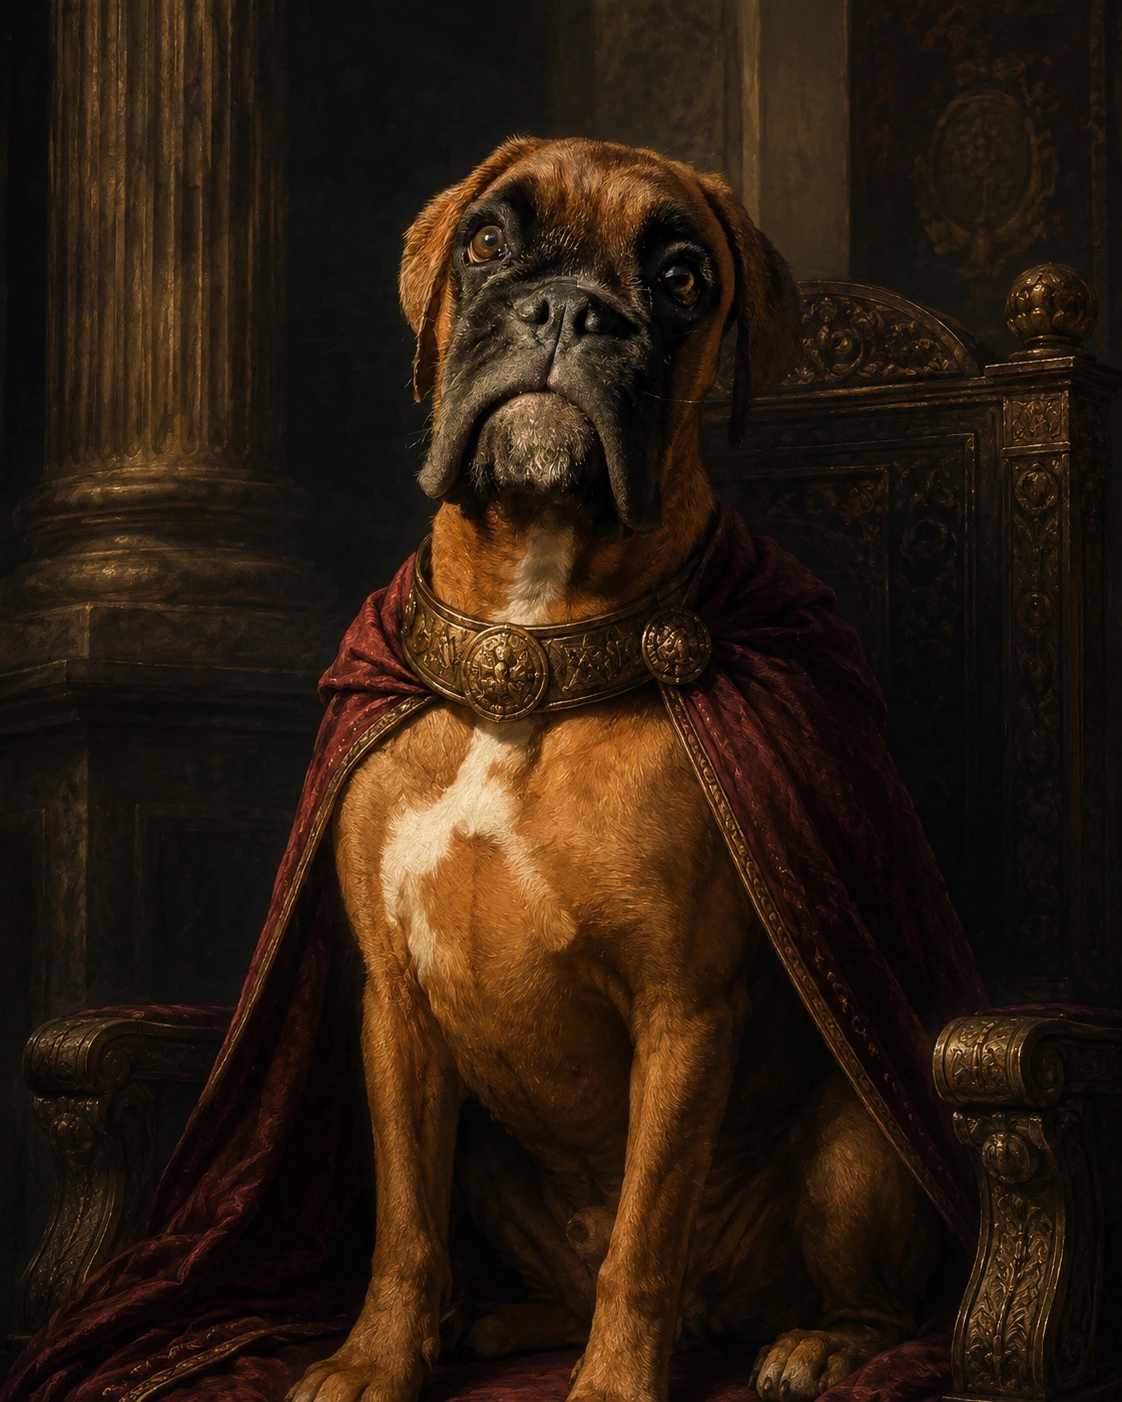
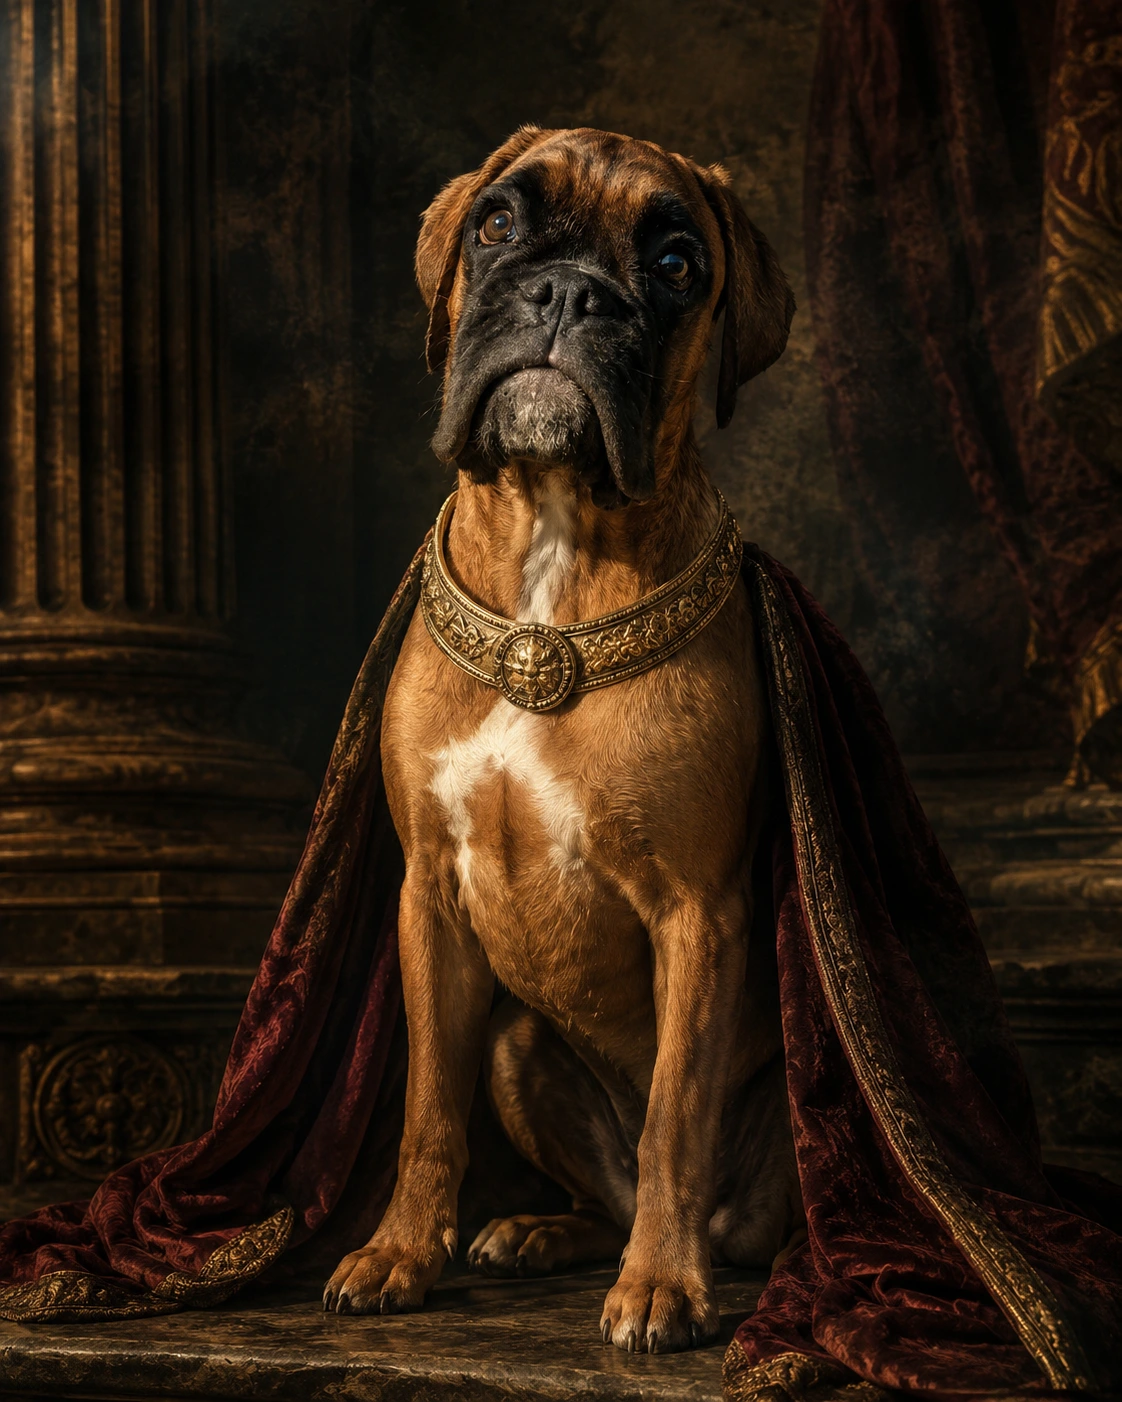
new images

diff --git a/src/pages/BoxerArt.jsx b/src/pages/BoxerArt.jsx
@@ -6,6 +6,8 @@ import daenerysTerrace from "../assets/Daenerys_Khaleesi_Relaxing_on_a_sunlit_te
 import adamGuardian from "../assets/adam_dblack_Noble_guardian.webp";
 import adamPuppy from "../assets/adam_dblack_puppy_classical_setting.webp";
 import adamSweetPuppy from "../assets/adam_dblack_Sweet_puppy_portrait.webp";
+import aprilliaPortrait from "../assets/Aprillia_Von_der_Drachenwiese_Regal_boxer_in_classical_portrait_style.webp";
+import aprilliaGarden from "../assets/Aprillia_Von_der_DrachenwieseBoxer_dog_classical_garden.webp";
 
 // Future Gelato order creation, price retrieval, and checkout must be handled
 // through a secure backend or serverless function. Secret credentials must never
@@ -114,6 +116,44 @@ const artworks = [
     image: adamSweetPuppy,
     alt: "Digital fine-art portrait of Adam D Black as a very young Boxer puppy with blue eyes",
     description: "A soft puppy portrait inspired by Adam D Black when he was tiny and still had blue eyes.",
+    featured: false,
+    printAvailable: false,
+    gelatoProductId: null,
+    productUid: null,
+    printFormats: ["Fine-art poster", "Framed print", "Canvas"],
+    availableSizes: [],
+    frameOptions: [],
+    price: null,
+    currency: null,
+    checkoutEnabled: false,
+  },
+  {
+    id: "art-aprillia-von-der-drachenwiese",
+    slug: "aprillia-von-der-drachenwiese-regal-portrait",
+    title: "Classical Regal Portrait",
+    dogName: "Aprillia Von der Drachenwiese",
+    image: aprilliaPortrait,
+    alt: "Digital fine-art portrait of Aprillia Von der Drachenwiese as a regal Boxer in classical portrait style",
+    description: "A classical fine-art Boxer portrait with a dignified pose, rich tones, and a timeless gallery feeling.",
+    featured: false,
+    printAvailable: false,
+    gelatoProductId: null,
+    productUid: null,
+    printFormats: ["Fine-art poster", "Framed print", "Canvas"],
+    availableSizes: [],
+    frameOptions: [],
+    price: null,
+    currency: null,
+    checkoutEnabled: false,
+  },
+  {
+    id: "art-aprillia-classical-garden",
+    slug: "aprillia-von-der-drachenwiese-classical-garden",
+    title: "Classical Garden Portrait",
+    dogName: "Aprillia Von der Drachenwiese",
+    image: aprilliaGarden,
+    alt: "Digital fine-art portrait of Aprillia Von der Drachenwiese as a Boxer dog in a classical garden",
+    description: "A refined garden portrait concept with classical styling, natural light, and a calm noble presence.",
     featured: false,
     printAvailable: false,
     gelatoProductId: null,

diff --git a/src/index.css b/src/index.css
@@ -556,6 +556,20 @@ p {
   padding: clamp(1.3rem, 3vw, 2rem);
 }
 
+.editorial-columns__image {
+  min-height: 100%;
+  margin: 0;
+  background: rgba(255, 255, 255, 0.64);
+  overflow: hidden;
+}
+
+.editorial-columns__image img {
+  width: 100%;
+  height: 100%;
+  min-height: 320px;
+  object-fit: cover;
+}
+
 .preview-item--available {
   position: relative;
   overflow: hidden;

diff --git a/src/pages/About.jsx b/src/pages/About.jsx
@@ -1,6 +1,7 @@
 import { Link } from "react-router-dom";
 import Meta from "../components/Meta";
 import { kennelInfo } from "../data/kennel";
+import familyMomentsImage from "../assets/casa_di_andrey_Family_moments.webp";
 
 export default function About() {
   return (
@@ -34,6 +35,13 @@ export default function About() {
             families.
           </p>
         </article>
+        <figure className="editorial-columns__image">
+          <img
+            src={familyMomentsImage}
+            alt="Casa di Andrey family moment with Boxer dogs"
+            loading="lazy"
+          />
+        </figure>
       </section>
 
       <section className="section cta-section">

diff --git a/src/pages/Gallery.jsx b/src/pages/Gallery.jsx
@@ -4,9 +4,11 @@ import puppyImage from "../assets/aria_puppy.webp";
 import boxerImage from "../assets/aria-vlajko-meet.webp";
 import ariaImage from "../assets/aria_vlajko.webp";
 import cartierImage from "../assets/cartier&free.webp";
+import adamPoseImage from "../assets/adam_dblack_pose_fhotosuting.jpg";
 import { currentPuppies } from "../data/puppies";
 
 const galleryImages = [
+  { src: adamPoseImage, alt: "Adam D Black posing during a Casa di Andrey photoshooting" },
   { src: heroImage, alt: "Casa di Andrey Boxers together" },
   { src: puppyImage, alt: "Casa di Andrey Boxer puppy" },
   { src: boxerImage, alt: "Casa di Andrey adult Boxer photograph" },

diff --git a/src/pages/Home.jsx b/src/pages/Home.jsx
@@ -4,6 +4,7 @@ import introLogo from "../assets/CASADIANDREY-logo.svg";
 import heroImage from "../assets/banner_aria_puppy.webp";
 import boxerImage from "../assets/aria_08.01.2024.webp";
 import puppyImage from "../assets/aria-vlajko-meet-new.webp";
+import adamPoseImage from "../assets/adam_dblack_pose_fhotosuting.jpg";
 import { kennelInfo } from "../data/kennel";
 import { litters } from "../data/litters";
 import { currentPuppies } from "../data/puppies";
@@ -146,6 +147,7 @@ export default function Home() {
           </Link>
         </div>
         <div className="gallery-strip">
+          <img src={adamPoseImage} alt="Adam D Black posing during photoshooting" loading="lazy" />
           <img src={heroImage} alt="Casa di Andrey dogs together" loading="lazy" />
           <img src={puppyImage} alt="Casa di Andrey puppy portrait" loading="lazy" />
           <img src={boxerImage} alt="Casa di Andrey Boxer portrait" loading="lazy" />